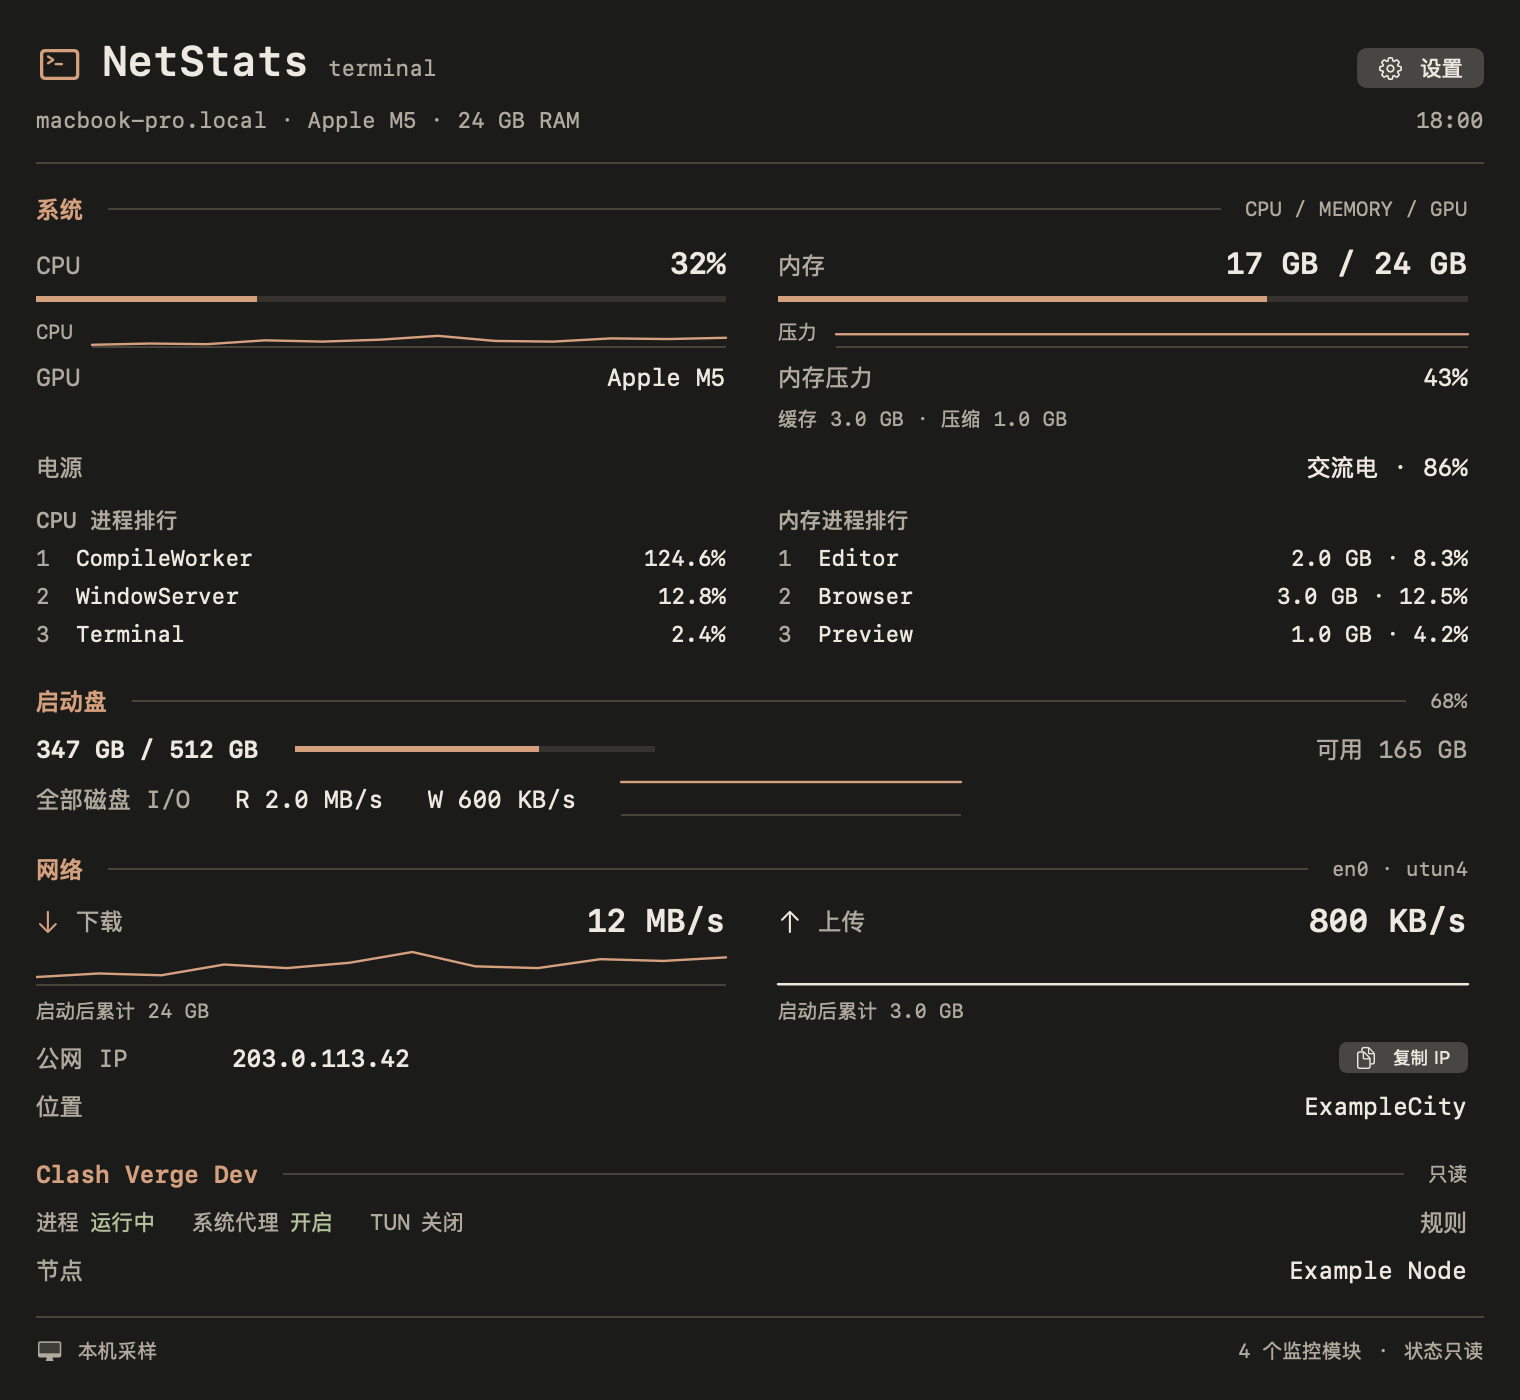
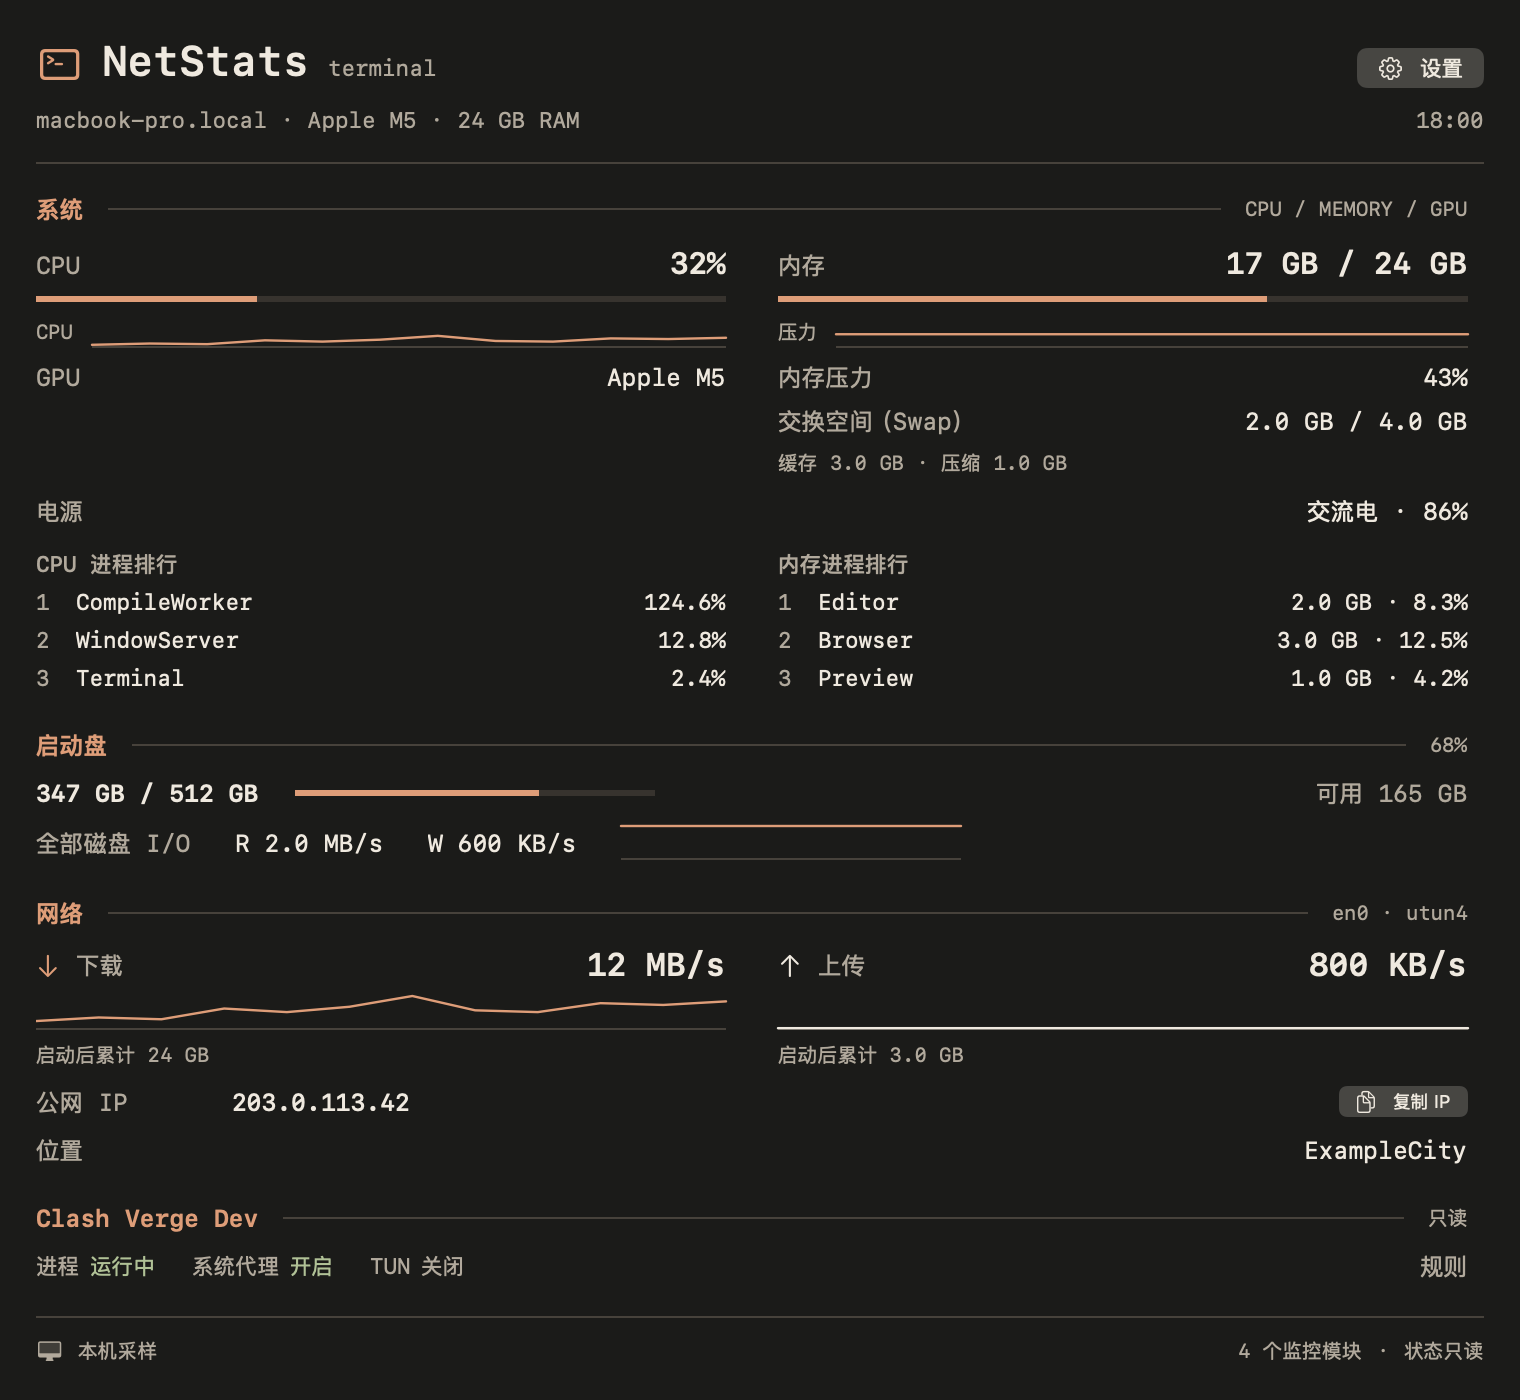
chore: refresh v2.02 previews and increment build to 31

diff --git a/docs/release-notes/v2.02.md b/docs/release-notes/v2.02.md
@@ -1,6 +1,6 @@
 # NetStats v2.02 — 待发布 / Unreleased
 
-应用版本 **2.0.2** · 构建 **30** · macOS **14+**
+应用版本 **2.0.2** · 构建 **31** · macOS **14+**
 
 此页面用于审核 v2.02 的源码改动，不代表 GitHub Release 或 DMG 已发布。当前正式下载仍为 v2.01。
 
@@ -8,11 +8,12 @@
 
 - **应用更新**：在“设置 → 关于”检查签名更新，也可开启自动检查与自动下载。v2.01 用户需先手动安装一次含更新器的版本。
 - **屏顶卡片**：点击图钉可固定或取消固定，展开时卡片上沿与屏顶入口平滑衔接。
-- **日历授权**：完成系统授权后，返回已打开的日历设置页继续选择日历。
+- **日历授权**：系统权限对话框退场后，重新激活原来的设置窗口，方便继续选择日历。手动关闭或最小化设置会取消恢复。
 - **双指切页**：卡片内水平滑动切换已启用功能，一次一页、到边缘停止；保留纵向滚动，输入、弹窗和拖放时避免误切。
 - **切页动画**：约240毫秒的方向滑动与淡入淡出，窗口高度同步衔接；减少动态效果时使用短淡入淡出。快速反向、立即调整尺寸和关闭重开不会保留旧动画目标。
 - **屏顶适配**：自动识别可用的内置实体刘海，没有刘海屏时使用主屏顶栏；也可手动选择刘海或顶栏。顶栏支持悬停、点击展开和既有文件暂存流程。
 - **设置**：新增系统登录项开关和关于页，包含版本、构建号、版权、MIT协议、项目地址及 Star 支持入口。升级不会自动替用户开启登录自启。
+- **内存详情**：原生和 Terminal 样式均显示交换空间（Swap）的已用量与已分配总量。原生详情中，已用、缓存、压缩、交换空间与电源各行共用图标列和文字起点。
 - **设备卡片**：补足内容高度，完整显示启动盘明细与全部磁盘I/O。
 - **Terminal详情**：深炭灰与暖橙、等宽列、平面分节、固定头尾及滚动正文。移除没有依据的 Health 评分和网络伪利用率，统一遵守模块、历史和进程排行开关；保留设置和IP复制。
 
@@ -27,6 +28,7 @@
 ## 验证范围
 
 - 自动测试覆盖手势分类、方向、快速反向窗口动画、布局空间、设置持久化、登录项状态流、显示适配和 Terminal 的实际渲染内容。
+- 在 macOS 27.3 上用隔离应用复现了日历授权后窗口失焦。修正后用两个真实窗口重放相同的焦点交接，确认设置在回调后 3 秒仍可见并持有键盘焦点。
 - 本机已经检查顶栏点击、自动刘海识别、关于页；真实触控板切页与动画已获使用反馈。
 - 登录自启经主动开启后确认系统登记为 enabled/allowed，应用重启后仍开启；未执行注销或系统重启验证。
 - 无刘海回退有几何回归和手动顶栏检查；无刘海实体Mac、合盖、多显示器、全屏及睡眠唤醒仍需继续真机覆盖。
@@ -34,5 +36,7 @@
 ## English
 
 This pending release adds animated two-finger page navigation, automatic notch/top-bar selection, system-backed launch at login and an About page. It fixes clipped device information and replaces Terminal details with a compact charcoal-and-warm-orange interface. Existing preferences and local data remain in place; login startup is enabled only by an explicit user action.
+
+Both detail styles show used and allocated swap. Native memory and power labels now share a fixed icon column.
 
 Terminal previews use synthetic data rendered by the native components. A release asset is not published by this pull request. See the [card guide](../notch-hover.md) and [Terminal design notes](../terminal-style.md).

diff --git a/assets/screenshots/v2.02/README.md b/assets/screenshots/v2.02/README.md
@@ -4,7 +4,7 @@
 
 These are native SwiftUI/AppKit view renders from `TerminalMonitorRenderingTests`, with synthetic metrics, process names, the documentation-only IP address `203.0.113.42`, and example location/proxy labels. They are not live desktop screenshots and do not contain real clipboard, calendar, IP or proxy data.
 
-The source is the v2.02 pull-request working tree. The render uses `TerminalMonitorView`, `TerminalTheme`, and AppKit's `NSHostingView.cacheDisplay(in:to:)`. Both previews use the chosen charcoal/warm-orange appearance. The new app version is 2.0.2, build 29; no release artifact is implied by these previews.
+The source is the v2.02 pull-request working tree. The render uses `TerminalMonitorView`, `TerminalTheme`, and AppKit's `NSHostingView.cacheDisplay(in:to:)`. Both previews use the chosen charcoal/warm-orange appearance. The new app version is 2.0.2, build 31; no release artifact is implied by these previews.
 
 To regenerate the fixtures:
 

diff --git a/CHANGELOG.md b/CHANGELOG.md
@@ -7,6 +7,7 @@ All notable changes to NetStats will be documented in this file.
 - Check for signed updates in About and opt into background checks and downloads. The disk image includes a bilingual first-launch guide.
 - Pin the expanded screen-top card across page changes. Its collapsed handle gives way to the expanded card without an extra material strip.
 - Restore the Calendar settings window after the macOS access prompt.
+- Show used and allocated swap in both Native and Terminal memory details. Align the icons and labels in the Native detail rows.
 
 - Fixed stray “NetStats” tooltips on macOS 27. Selected status metrics appear in the icon’s context menu. Right-click or Control-click the icon and choose Quit NetStats to exit.
 
